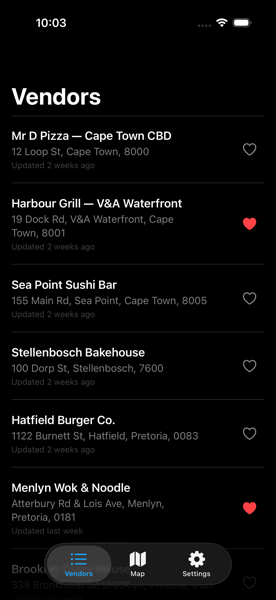
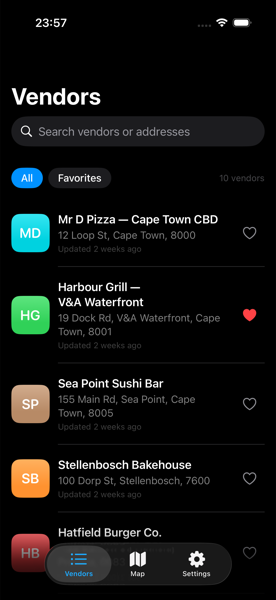
docs: cover search, filter and the map card in README and SOLUTION

diff --git a/SOLUTION.md b/SOLUTION.md
@@ -9,7 +9,9 @@ A SwiftUI app to browse Mr D vendors, see them on a Google Map, and manage a ses
 | Task 1: vendor list, favorites, reload, friendly errors, light/dark | `Features/VendorList`, `VendorsViewModel`, `UserFacingError` |
 | Task 2: Google Map, markers, recenter on select, one Places feature | `Features/Map`, `Core/Places` |
 | Task 3: Keychain token, Settings screen, token used by the network layer | `Core/Security`, `Features/Settings`, `URLSessionAPIClient` |
-| Unit tests (XCTest) | `MrDVendorLocatorTests` — 34 tests |
+| Bonus: map ↔ list highlighting | Map card → list scroll + highlight; list → map recenter |
+| Bonus: CI + Fastlane | `.github/workflows/ci.yml`, `fastlane/Fastfile` |
+| Unit tests (XCTest) | `MrDVendorLocatorTests` — 40 tests |
 
 ## Architecture
 
@@ -84,7 +86,10 @@ Tests never call Google.
 - `GMSMapView` wrapped in a `UIViewRepresentable`; a coordinator is the `GMSMapViewDelegate`.
 - **Markers are diffed by vendor ID** on each update instead of being recreated, so favorites and newly geocoded vendors update in place without flicker.
 - Selection is a value with its own ID, so selecting the **same** vendor twice still recenters the map.
-- Favorites use a different marker colour.
+- Favorites use a different marker colour. Each marker's VoiceOver label is the vendor name, plus "favorite" where it applies.
+- Tapping a marker shows a **SwiftUI card** for the vendor instead of Google's info window, so it matches the app's styling and dark mode. Tapping the map closes it.
+- **Map → list:** tapping the card switches to the list, scrolls to that vendor and highlights it. If the search or filter would hide the vendor, they are cleared first.
+- Map controls: re-frame all vendors, and switch between standard and satellite.
 - The Maps SDK follows the system appearance, so light/dark switches live without extra code.
 
 ## Session token and Keychain
@@ -94,18 +99,22 @@ Tests never call Google.
 - Settings shows the token masked with a reveal toggle, plus Save and Clear (with confirmation). Saving or clearing reloads vendors immediately.
 - A 401 clears the list and shows **Session required → Open Settings**, so data is never left on screen after the session is rejected.
 
+## Search and filter
+
+The list has a search bar (name or address, ignoring case and accents) and **All / Favorites** chips with a live count. The filtering lives in the view model as a computed `visibleVendors`, so it is unit-tested without any UI. An empty result says why: no search matches, or no favorites yet.
+
 ## Favorites
 
 Toggling is **optimistic**: the heart updates immediately, and rolls back with an alert if the save fails. Favorites are stored locally as overrides on top of the API data (`UserDefaults`), since the stub API is read-only.
 
 ## Testing
 
-XCTest only, 34 tests, no network or Google calls:
+XCTest only, 40 tests, no network or Google calls:
 
 | Suite | Covers |
 |---|---|
 | `VendorDecodingTests` | Full vendor, missing coordinate, ISO 8601 dates, malformed JSON |
-| `VendorsViewModelTests` | Load states, empty, errors, 401 clearing content, selection (incl. re-selecting the same vendor), optimistic favorites + rollback, geocoding only missing coordinates, a failed geocode not dropping the vendor |
+| `VendorsViewModelTests` | Load states, empty, errors, 401 clearing content, selection (incl. re-selecting the same vendor), optimistic favorites + rollback, geocoding only missing coordinates, a failed geocode not dropping the vendor, search (case/accent-insensitive), the favorites filter, revealing a vendor hidden by filters |
 | `StubAPIClientTests` | 401 without token, success, 500, offline — through the real `URLSession` client |
 | `CachingGeocoderTests` | Cache hits, address normalisation, in-flight sharing, failures not cached |
 | `KeychainTokenStoreTests` | Save, read, overwrite, clear (isolated service per run) |
@@ -123,4 +132,5 @@ XCTest only, 34 tests, no network or Google calls:
 - **No offline cache of vendors.** Offline shows a friendly error with retry. Next step: persist the last successful response and show it with a "last updated" banner.
 - **`VendorsViewModel` owns loading, geocoding and favorites.** Fine at this size; if it grew, geocoding would move into its own coordinator.
 - **No user location / "nearby" sorting.** Not required by any task, and it adds a permission flow. Next step: `CLLocationManager` behind a protocol and sort by distance.
+- **No vendor images.** The API has no image URLs, so each vendor gets a coloured initials tile rather than invented photos. Next step: an optional `imageURL` in the model, loaded with `AsyncImage`, keeping the initials tile as the placeholder and fallback.
 - **No marker clustering** — unnecessary for ten vendors; Google's iOS Utils library would be the route at scale.

diff --git a/README.md b/README.md
@@ -11,8 +11,8 @@ Built for the Mr D Senior iOS Engineer assignment. Design decisions and trade-of
 
 ## Features
 
-- **Vendor list** with favorites, pull to refresh, and loading, empty and error states with friendly messages.
-- **Google Map** with a marker per vendor. Tapping a vendor in the list switches to the map and recenters on it.
+- **Vendor list** with search, an All / Favorites filter, favorites, pull to refresh, and loading, empty and error states with friendly messages.
+- **Google Map** with a marker per vendor. Tapping a vendor in the list switches to the map and recenters on it; tapping a marker shows a vendor card, which leads back to that vendor in the list.
 - **Places address → coordinates:** vendors that only have an address are geocoded with the Google Places SDK and appear on the map.
 - **Session token in the Keychain**, managed from Settings (masked by default, reveal, save, clear). Every API request sends it as a Bearer token.
 - **Light and dark mode**, switching live.
@@ -44,7 +44,7 @@ In Debug builds, **Settings → Developer → Stub API response** switches the s
 
 ## Tests
 
-34 XCTest unit tests. They never call Google or the network.
+40 XCTest unit tests. They never call Google or the network.
 
 - In Xcode: **Cmd+U**.
 - From the command line:
@@ -73,6 +73,6 @@ MrDVendorLocator/
       Places/               Geocoding, GooglePlacesGeocoder, CachingGeocoder, MockGeocoder
     Data/                   Vendor model, VendorRepository, FavoritesStore
     Features/               VendorList, Map, Settings (views + view models)
-    Shared/                 ViewState, UserFacingError
+    Shared/                 ViewState, UserFacingError, DesignSystem (vendor tile)
   MrDVendorLocatorTests/    Unit tests
 ```
